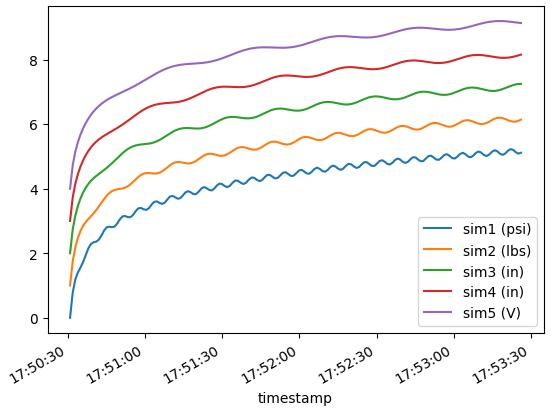
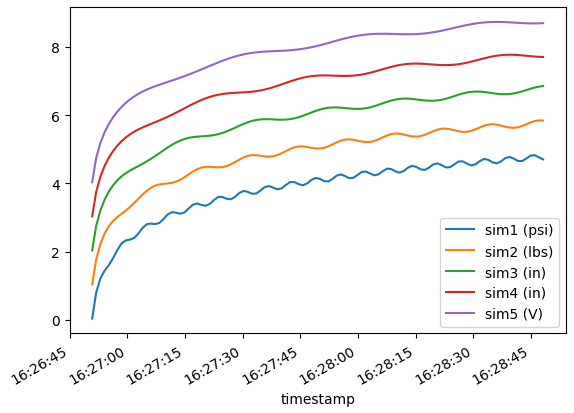
Add sensor table to data log file header
- Update `README.md` to match
- Add example Jupyter notebook

diff --git a/documentation/Readme.md b/documentation/Readme.md
@@ -24,21 +24,34 @@
   - additional samples on-button-click while running
 - Logging
   - CSV format
+    - starting datetime
+    - sensor table with rows of calibration coefficients
+    - data table with rows of unscaled data samples
   - create or overwrite log file
   - append to existing log file
+  - autoname with timestamp
 
 ## Data
 
+These snippets are from the example [Jupyter notebook](.\documentation\data_log%20notebook.ipynb).
+
 ```csv
-Date,2023-04-21
-Start time,17:50:30.959
+datetime,2023-04-23T16:26:50.791-07:00
+name,Vex,CF,X0
+sim1 (psi),1.0000,1.0000,0.0000
+sim2 (lbs),1.0000,1.0000,0.0000
+sim3 (in),1.0000,1.0000,0.0000
+sim4 (in),1.0000,1.0000,0.0000
+sim5 (V),1.0000,1.0000,0.0000
 timestamp,sim1 (psi),sim2 (lbs),sim3 (in),sim4 (in),sim5 (V)
-2023-04-21T17:50:30.958-07:00,0.0000,1.0000,2.0000,3.0000,4.0000
-2023-04-21T17:50:32.010-07:00,0.7880,1.7587,2.7460,3.7393,4.7353
-2023-04-21T17:50:33.010-07:00,1.1866,2.1841,3.1663,4.1550,5.1476
-2023-04-21T17:50:34.010-07:00,1.4063,2.4791,3.4672,4.4544,5.4450
-2023-04-21T17:50:35.010-07:00,1.5566,2.6916,3.6978,4.6876,5.6777
-2023-04-21T17:50:36.010-07:00,1.7250,2.8466,3.8799,4.8766,5.8682
+2023-04-23T16:26:50.826-07:00,0.0365,1.0351,2.0346,3.0344,4.0343
+2023-04-23T16:26:51.841-07:00,0.7872,1.7579,2.7452,3.7386,4.7345
+2023-04-23T16:26:52.941-07:00,1.2143,2.2177,3.1999,4.1883,5.1807
+2023-04-23T16:26:54.042-07:00,1.4384,2.5271,3.5179,4.5053,5.4956
+2023-04-23T16:26:55.140-07:00,1.6020,2.7427,3.7562,4.7476,5.7379
+2023-04-23T16:26:56.241-07:00,1.8049,2.8965,3.9417,4.9424,5.9350
+2023-04-23T16:26:57.342-07:00,2.0429,3.0110,4.0871,5.1015,6.0990
+2023-04-23T16:26:58.445-07:00,2.2364,3.1074,4.2025,5.2334,6.2380
 ```
 
 ```python
@@ -46,24 +59,16 @@ import pandas as pd
 
 data = pd.read_csv(
     "data_log.csv",
-    header=2,
+    header=7,
     parse_dates=["timestamp"],
 )
 
 print(f"shape{data.shape}")
-print(data.head())
 axes = data.plot.line(x="timestamp")
 ```
 
 > ```
-> shape(173, 6)
->
->                          timestamp  sim1 (psi)  sim2 (lbs)  sim3 (in)  sim4 (in)  sim5 (V)
-> 0 2023-04-21 17:50:30.958000-07:00      0.0000      1.0000     2.0000     3.0000    4.0000
-> 1 2023-04-21 17:50:32.010000-07:00      0.7880      1.7587     2.7460     3.7393    4.7353
-> 2 2023-04-21 17:50:33.010000-07:00      1.1866      2.1841     3.1663     4.1550    5.1476
-> 3 2023-04-21 17:50:34.010000-07:00      1.4063      2.4791     3.4672     4.4544    5.4450
-> 4 2023-04-21 17:50:35.010000-07:00      1.5566      2.6916     3.6978     4.6876    5.6777
+> data.shape(108, 6)
 > ```
 >
 > ![data log plots](./data_log%20plots.png)
